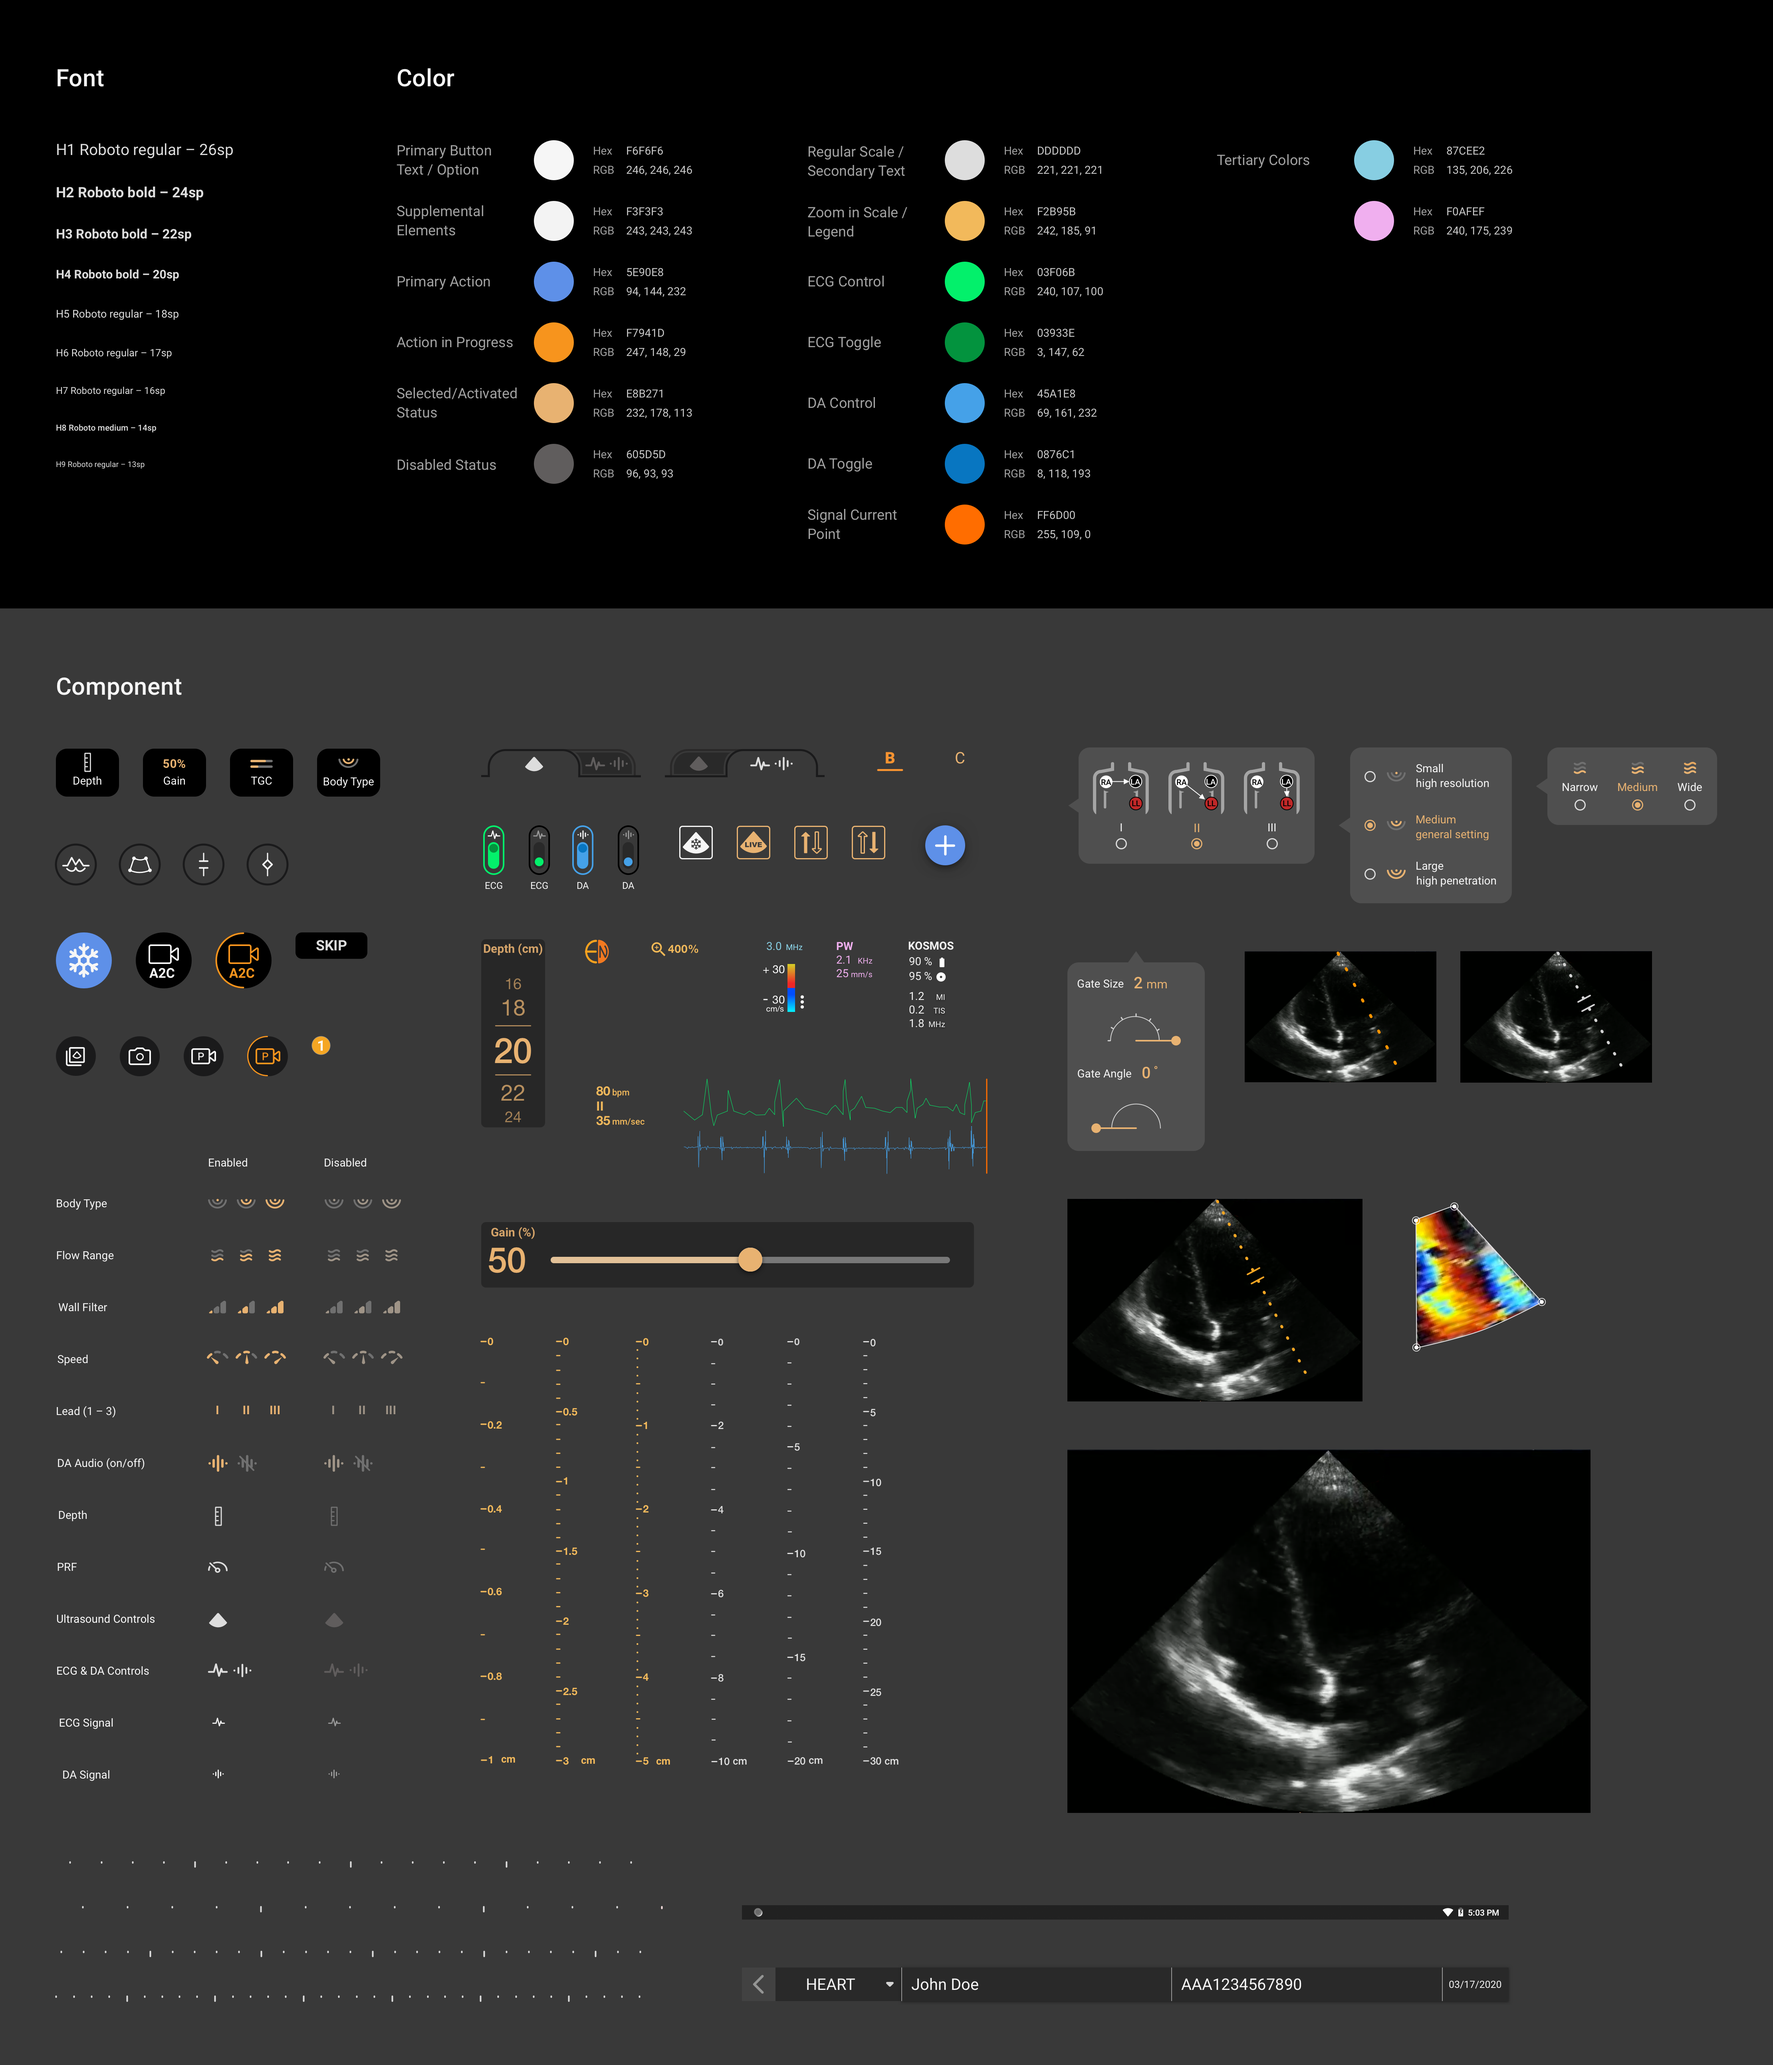
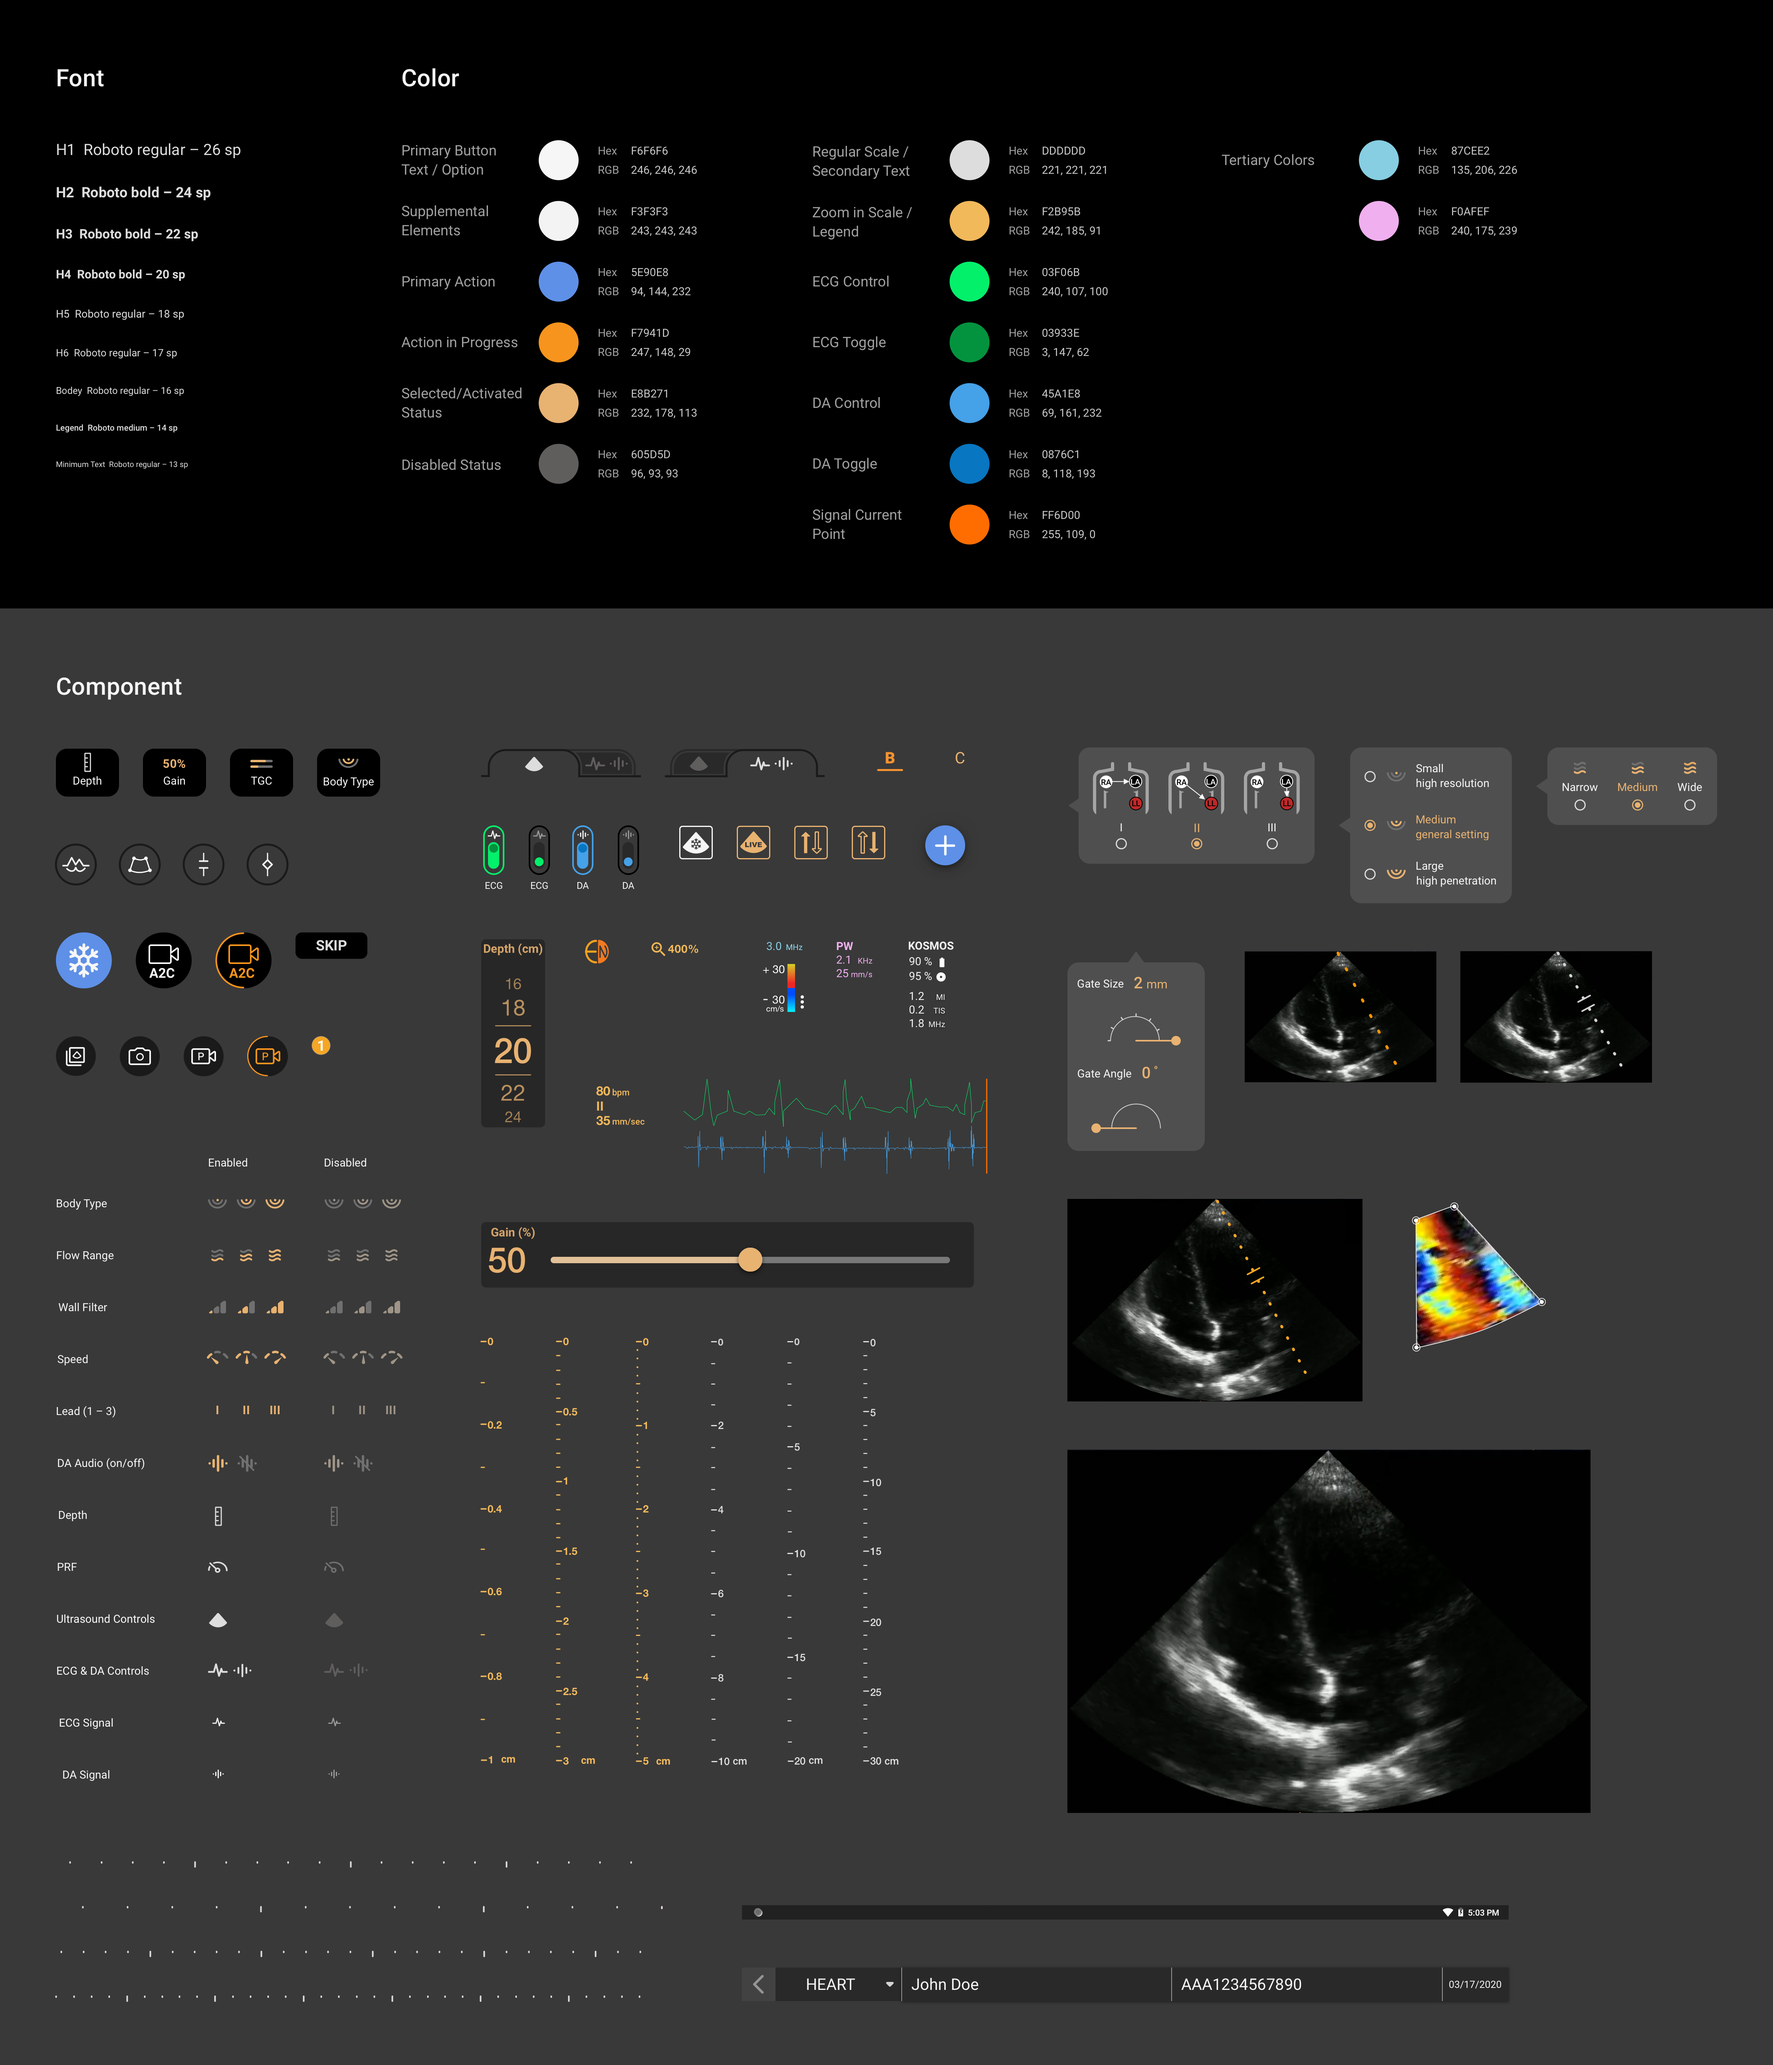
0109 -1

diff --git a/msa_edp.html b/msa_edp.html
@@ -974,6 +974,31 @@
               </div>
 
 
+
+
+
+
+
+              <div class="row">
+                <div class="col-sm-12"> 
+                    <div class="item04" id="msa_new_page">
+
+
+                   <p class="paragraph_below_image">
+                    At the end of this project, the wireframes, prototypes, and the visualization graphics for "senses" were handed over to developers. I also updated the design system along the way to <b>support smoother 
+                    cooperation between team members</b>.
+                  </p> 
+
+              </div>
+          </div>
+        </div>
+
+                
+          
+          <img src="img/msa_edp_picture/design_guideline.png" class="big_picture" alt="Design Guideline">
+
+
+
     
     
             </div>
